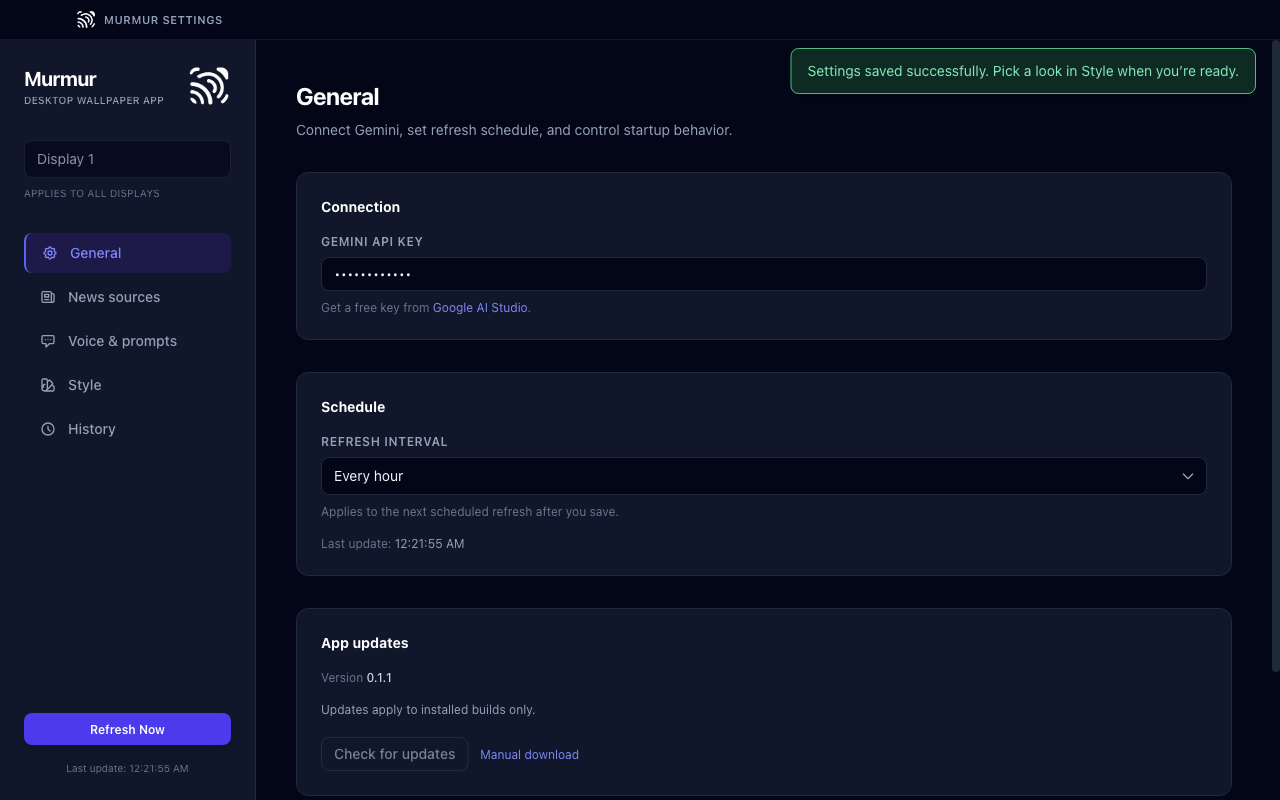
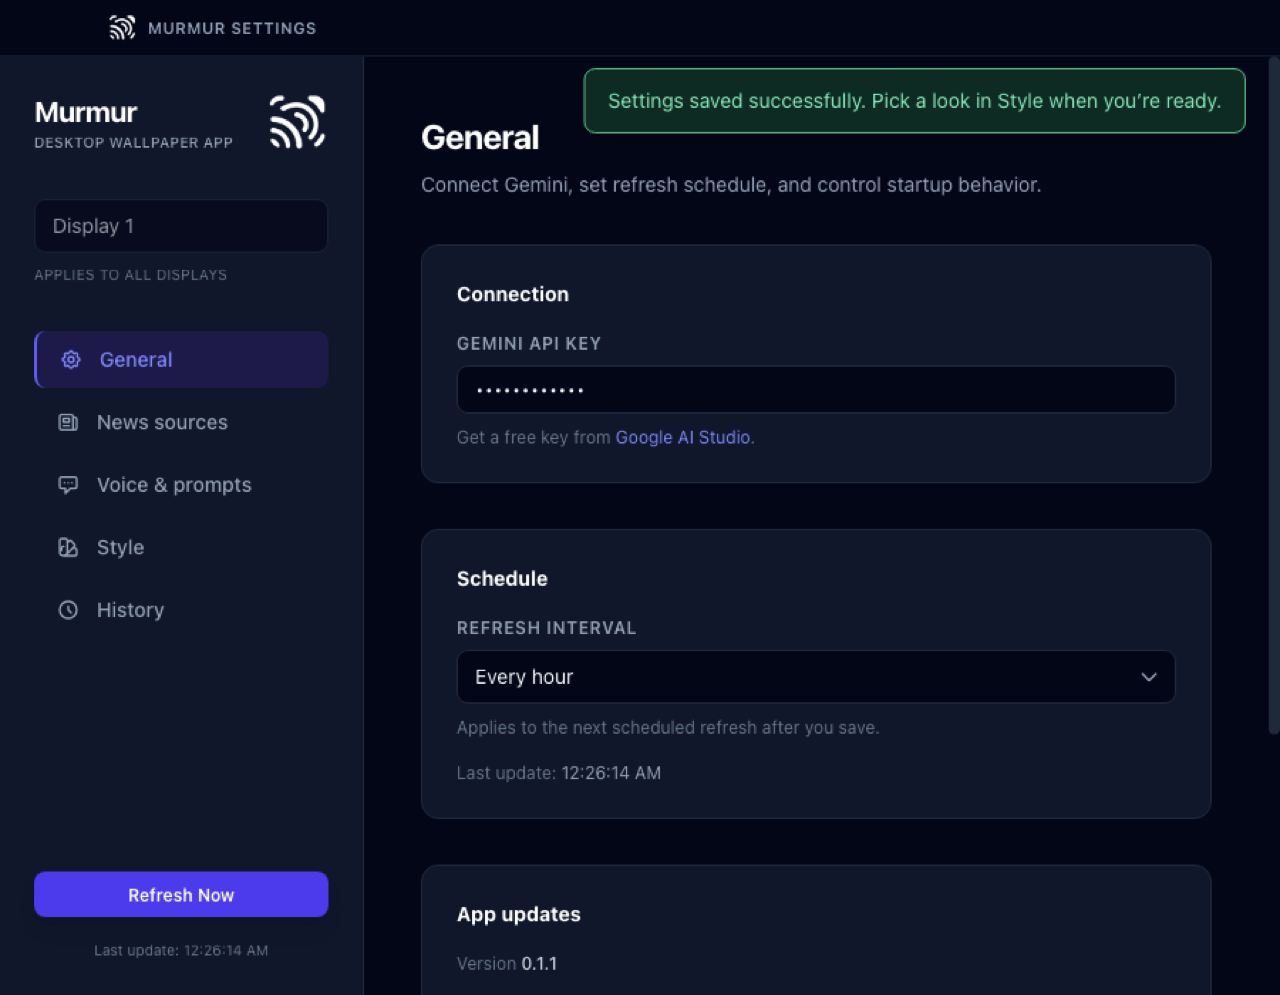
Capture README screenshots at default Settings size (900×700).
Align doc visuals with the shipped Settings window dimensions in settings-window.ts.

diff --git a/tests/e2e/readme-docs-screenshots.spec.ts b/tests/e2e/readme-docs-screenshots.spec.ts
@@ -5,8 +5,8 @@ import { e2eElectronLaunchOptions } from './helpers/e2eLaunch'
 import { applySettingsChanges } from './helpers/styleSettings'
 
 const DOCS_SCREENSHOTS_DIR = join(process.cwd(), 'assets', 'screenshots')
-/** Window size for doc captures: sidebar (256) + main padding (80) + content ≈ 944px at this width. */
-const VIEWPORT = { width: 1280, height: 800 }
+/** Match default Settings window (`settings-window.ts`: 900×700). */
+const VIEWPORT = { width: 900, height: 700 }
 
 function docScreenshot(filename: string): string {
   mkdirSync(DOCS_SCREENSHOTS_DIR, { recursive: true })

diff --git a/docs/screenshots.md b/docs/screenshots.md
@@ -12,7 +12,7 @@ npm run docs:screenshots
 
 This runs Playwright spec [`tests/e2e/readme-docs-screenshots.spec.ts`](../tests/e2e/readme-docs-screenshots.spec.ts), then [`scripts/optimize-docs-screenshots.mjs`](../scripts/optimize-docs-screenshots.mjs) (macOS: scales `hero-wallpaper.png` to max 1440px; no-op on other platforms—resize manually if needed).
 
-The spec (1280×800 viewport, cropped wizard card, full settings chrome without scroll padding):
+The spec ( **900×700** viewport — same as the default Settings window — cropped wizard card, full settings chrome without scroll padding):
 
 1. Uses `MURMUR_E2E` stubs (no live Gemini or RSS)
 2. Writes PNGs directly into `assets/screenshots/`
